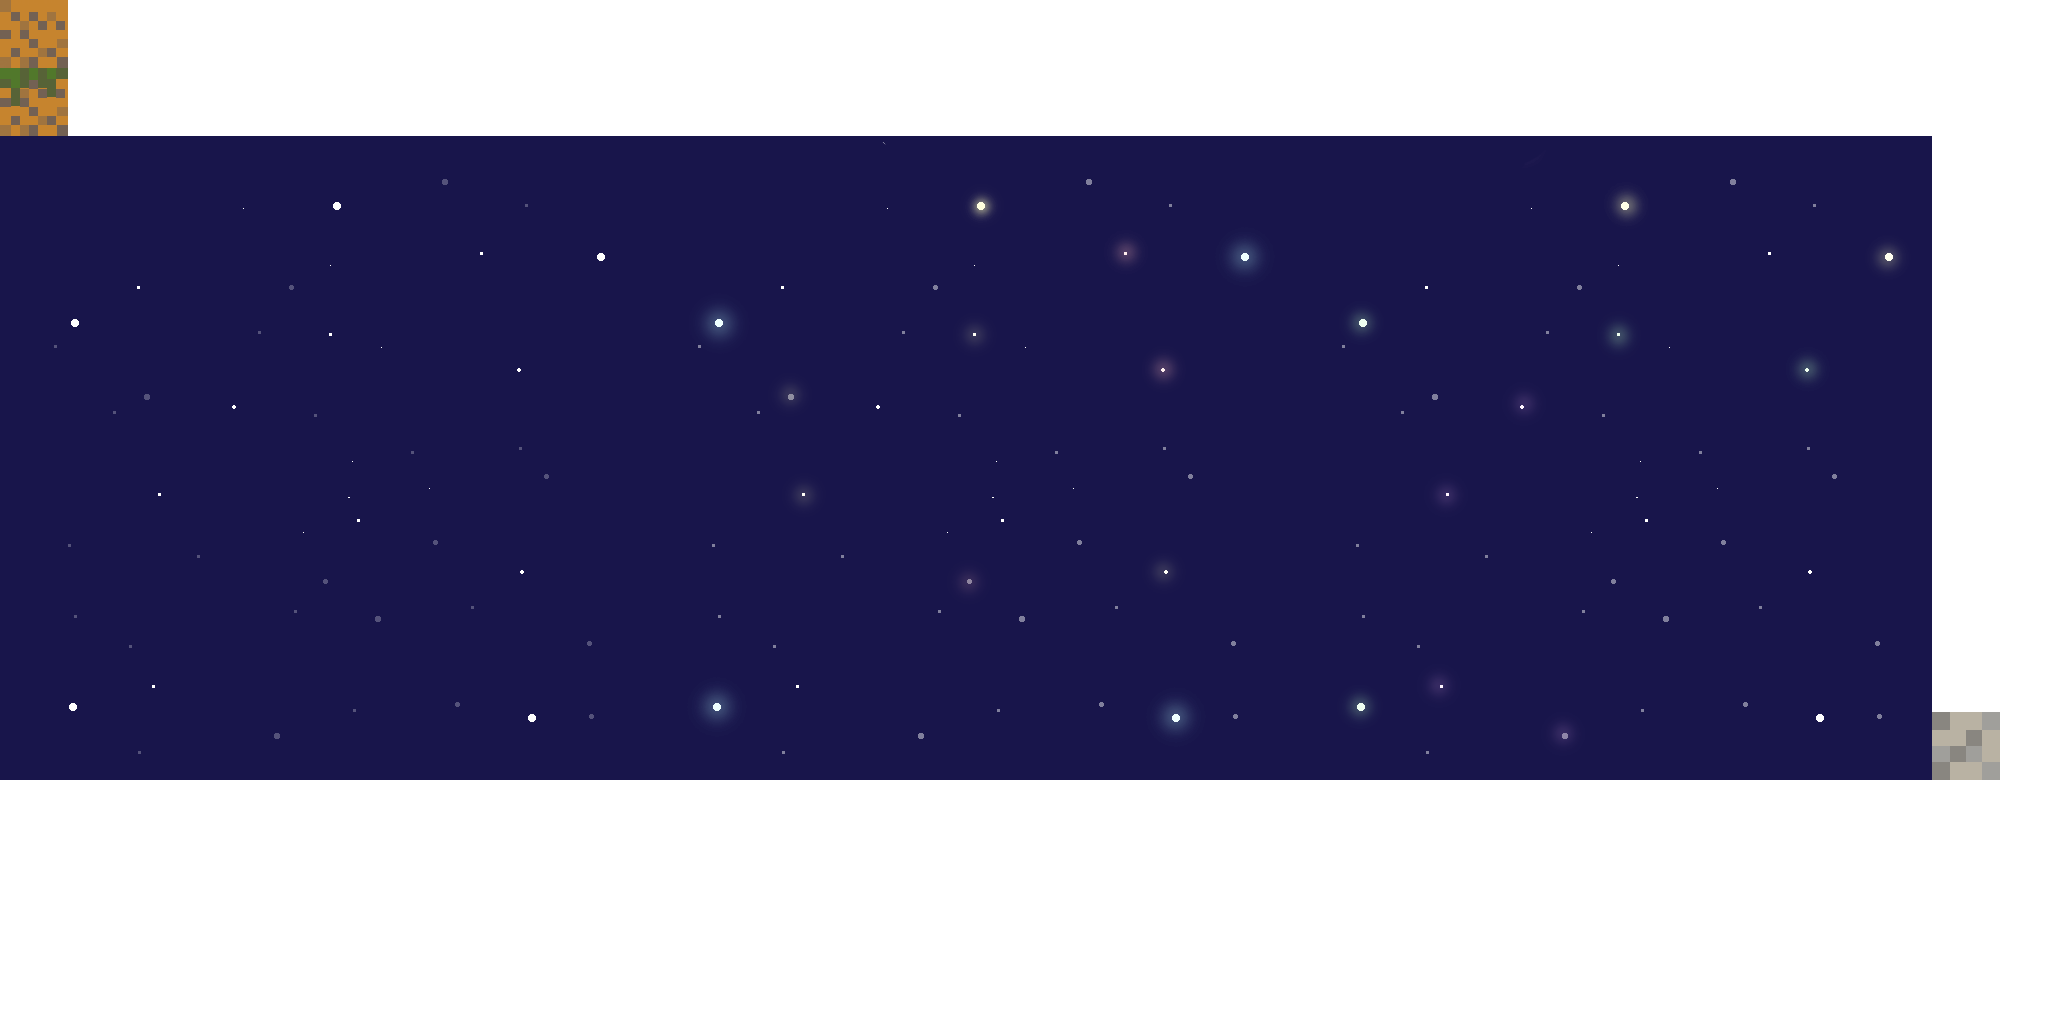
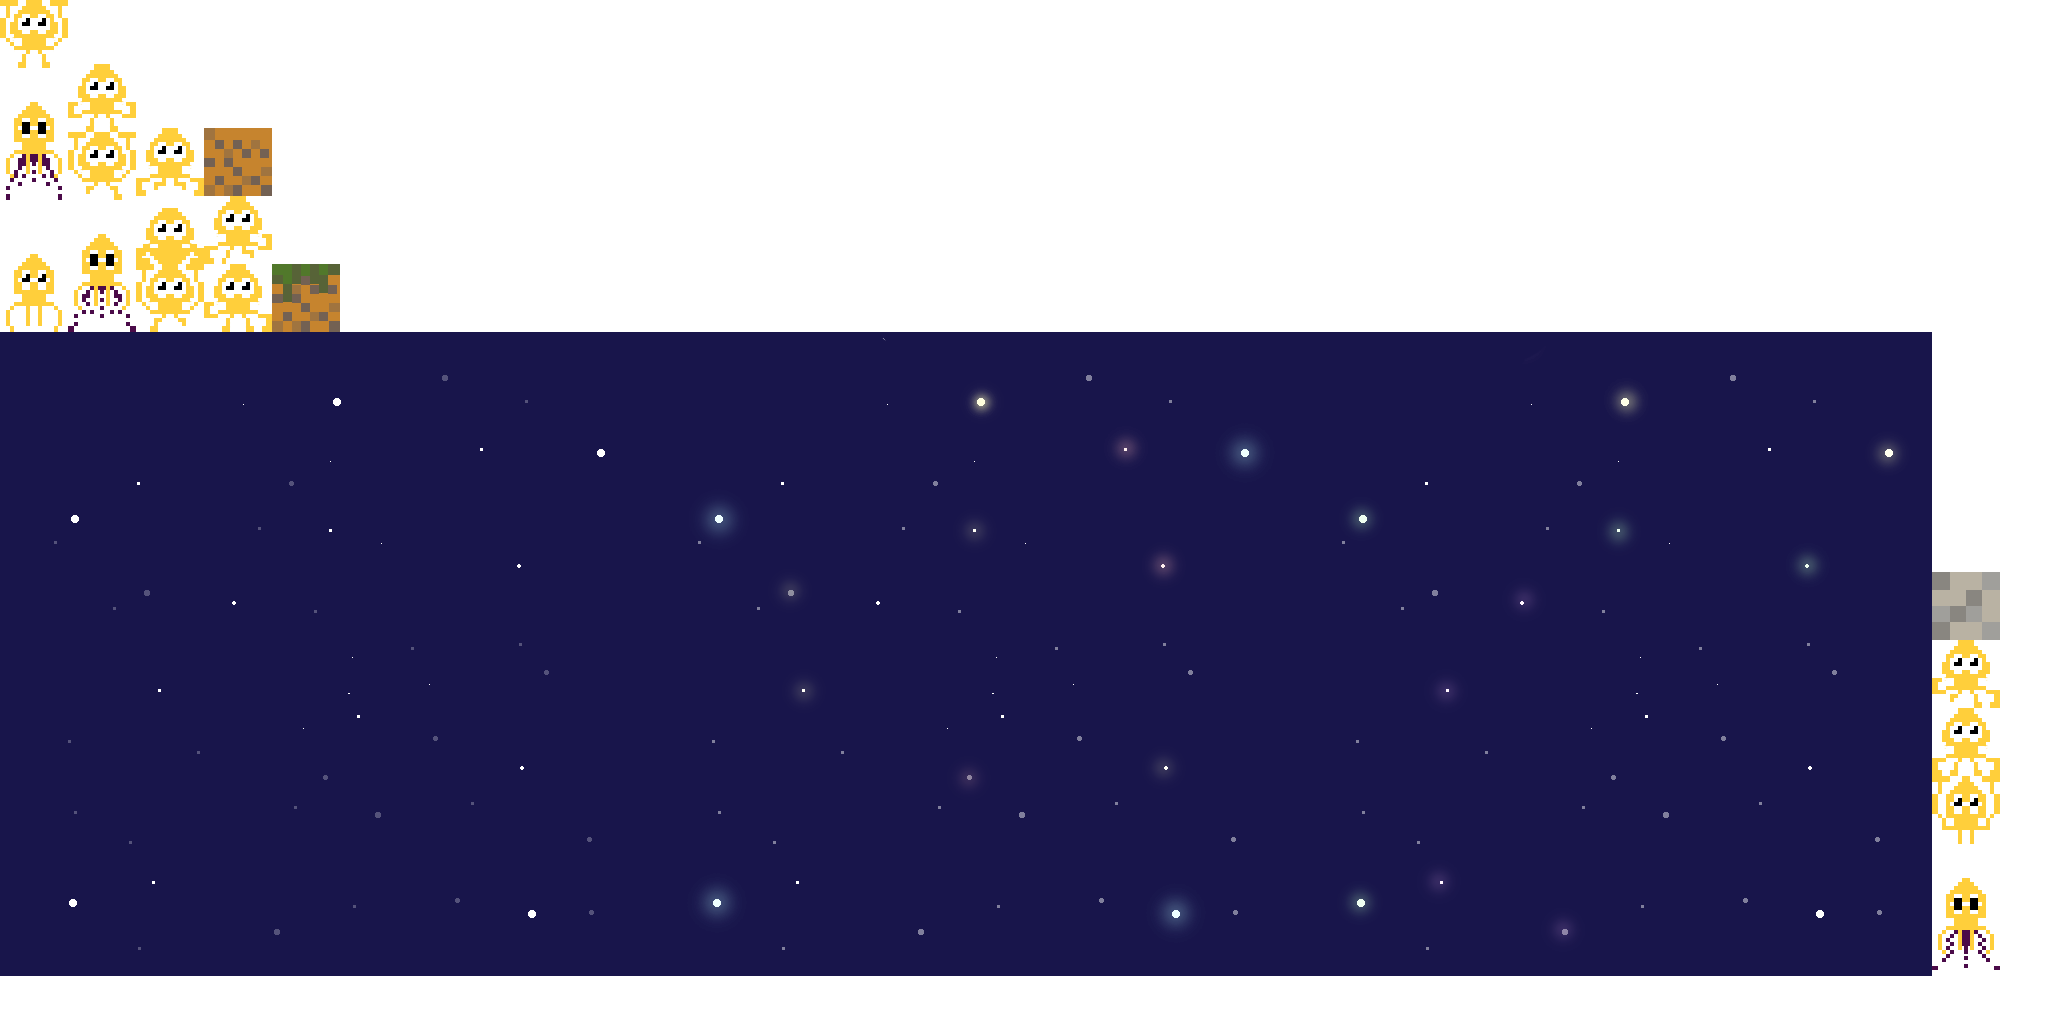
rotating octo

diff --git a/core/src/com/ggj15/model/Player.java b/core/src/com/ggj15/model/Player.java
@@ -21,6 +21,8 @@ public class Player extends Sprite {
     private final float JUMP_ACCEL = 300f;
     private final float INK_ACCEL = 10f;
 
+    private static final String CHAR_STAND = "char-stand";
+
     private float vx, vy;
     private boolean flying = false;
     private Direction gravity = Direction.DOWN;
@@ -29,9 +31,11 @@ public class Player extends Sprite {
     private PlayerActor actor;
 
     public Player() {
-        setRegion(ImageCache.getTexture(GRASS));
+        setRegion(ImageCache.getFrame(CHAR_STAND, 1));
+        setSize(getRegionWidth(), getRegionHeight());
         setX(50);
         setY(500);
+        setOriginCenter();
 
         actor = new PlayerActor();
     }
@@ -72,14 +76,29 @@ public class Player extends Sprite {
         setY(getY() + dy);
     }
 
-    public void draw(float delta, SpriteBatch batch) {
-        if (flying) {
+    @Override
+    public void draw(Batch batch) {
+        switch (gravity) {
+            case DOWN:
+                setRotation(0);
+                break;
 
-        } else {
+            case UP:
+                setRotation(180);
+                break;
 
+            case LEFT:
+                setRotation(270);
+                break;
+
+            case RIGHT:
+                setRotation(90);
+                break;
         }
 
-        batch.draw(this, getX(), getY());
+        super.draw(batch);
+        batch.draw(this, getX(), getY(), getOriginX(), getOriginY(), getWidth(),
+                getHeight(), getScaleX(), getScaleY(), getRotation());
     }
 
     private void startFly() {

diff --git a/core/src/com/ggj15/screen/GameScreen.java b/core/src/com/ggj15/screen/GameScreen.java
@@ -85,7 +85,7 @@ public class GameScreen extends BaseScreen {
         batch().begin();
         background.setPosition(player.getX() - getWorldWidth() / 2, player.getY() - getWorldHeight() / 2);
         background.draw(batch(), 0, 0);
-        player.draw(delta, batch());
+        player.draw(batch());
         planet.draw(delta, batch());
         hole.draw(delta, batch());
         batch().end();
